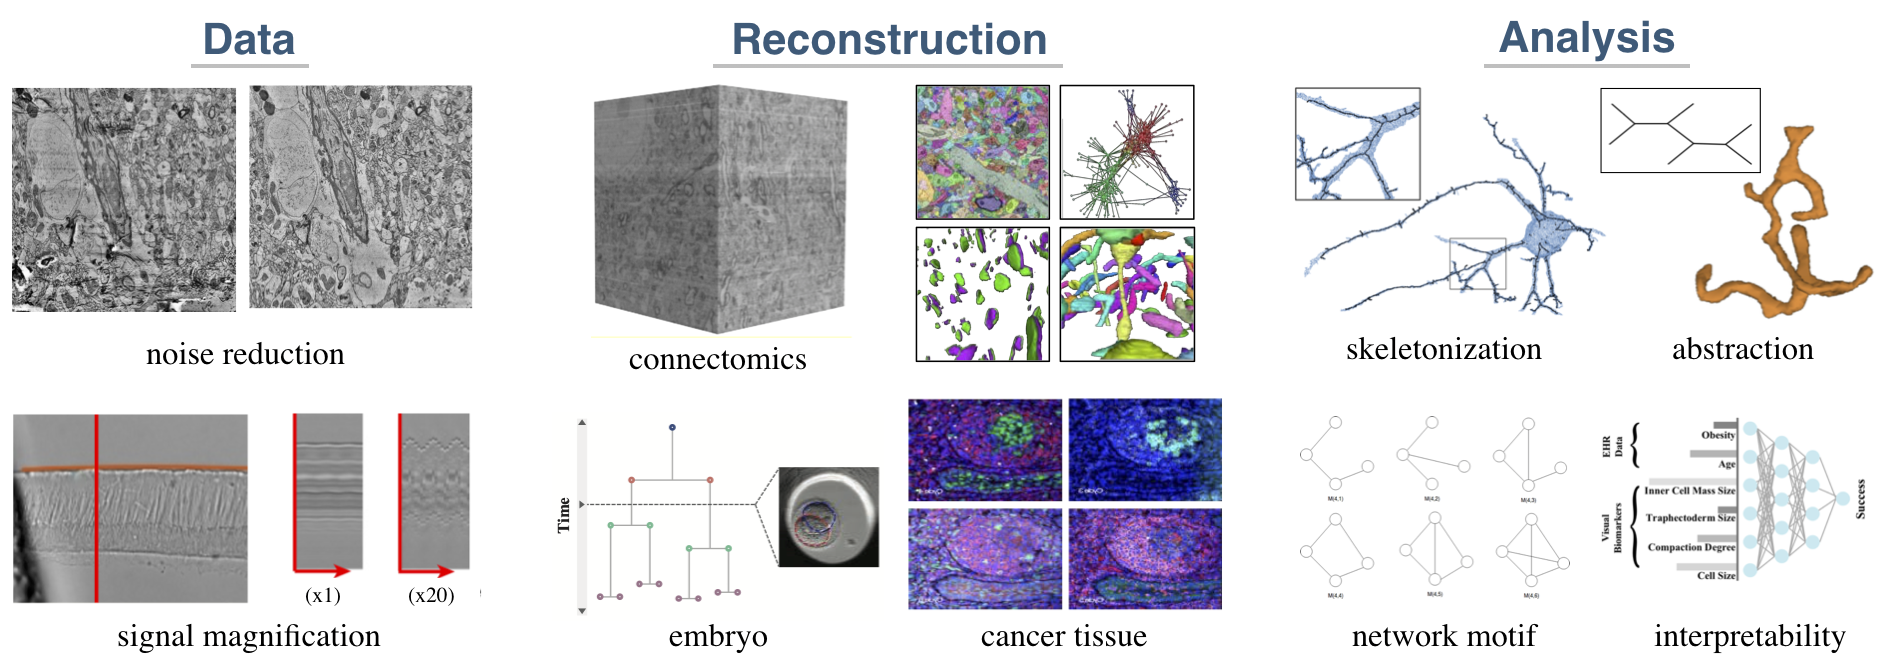
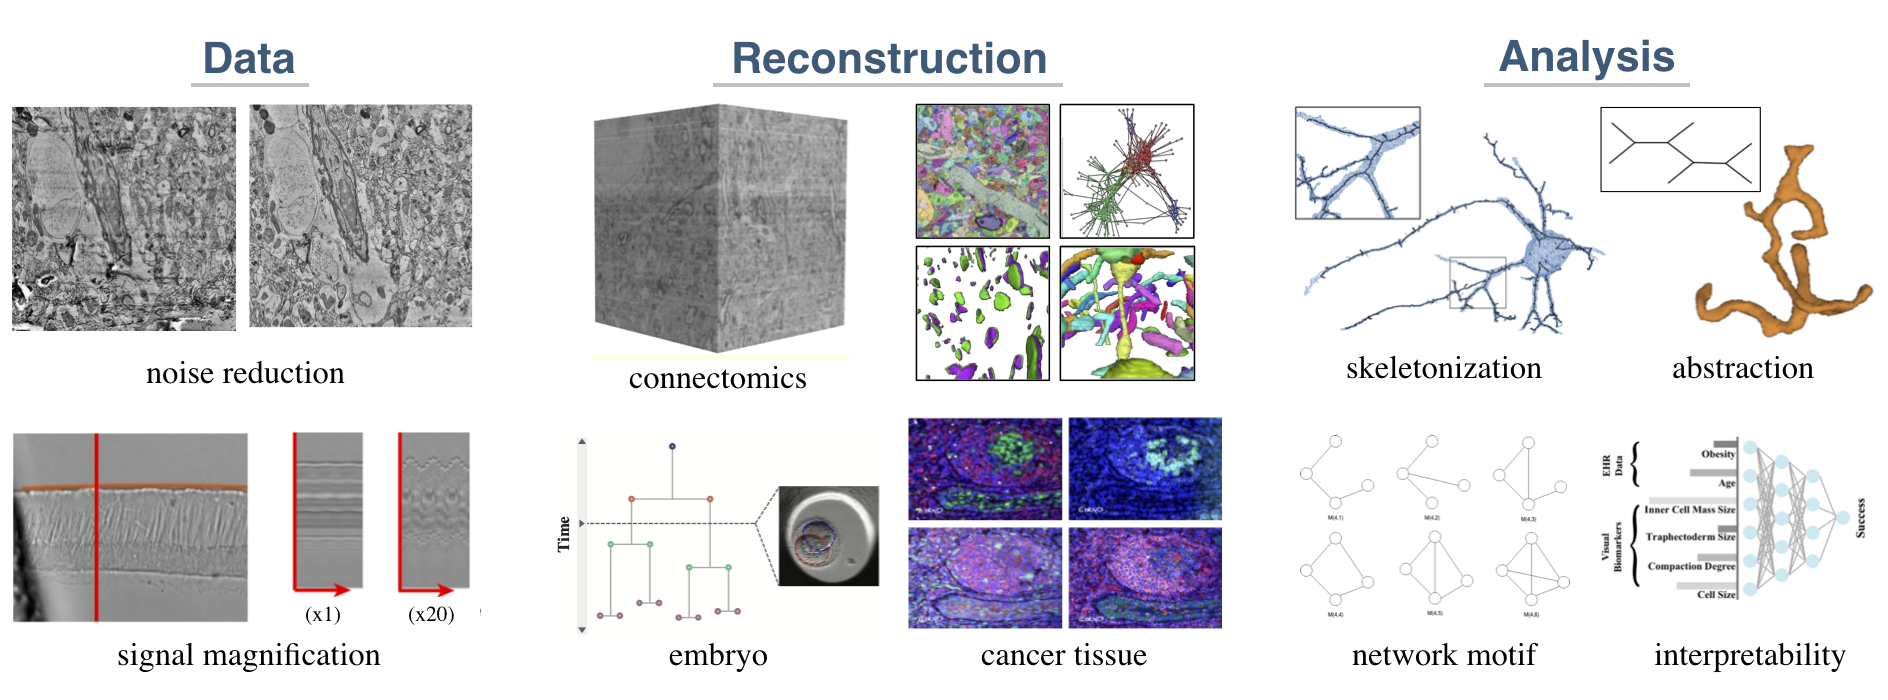
white margin

diff --git a/index.html b/index.html
@@ -79,9 +79,10 @@ My research interest lies in the <b>Biomedical Image Analysis</b> with healthcar
 <br/>
 During my Ph.D, I enjoyed the fun projects to examine the <a href="paper/2018_cvpr_aot.pdf">arrow of time</a> from videos.
             </h4></font>
+<br/>
 <img style="margin-left:-2.5%" width=105% src="proj/research_statement.png">
 </div>
-<br/><hr/><br/>
+<br/>
 <h2>Journal Publications</h2><br/>
         <table border=0>
     <tr>
@@ -274,12 +275,13 @@ During my Ph.D, I enjoyed the fun projects to examine the <a href="paper/2018_cv
             </tr>   
         </table>
 
-        <br/><hr/><br/>
+        <br/>
 <h2>Patents</h2>
       <ul>
           <li> <b>US Patent App. 15/223,438</b> Neal Wadhwa, Tali Dekel, Donglai Wei, Fredo Durand, William T. Freeman: Deviation Magnification: Revealing Departures from Ideal Geometries.</li>
       </ul>
-<hr/><br/>
+
+  </div>
 
 <h2>Short Bio</h2>
 <div style="font-size:140%">
@@ -321,8 +323,6 @@ During my Ph.D, I enjoyed the fun projects to examine the <a href="paper/2018_cv
         <td><font size=4><a href="http://www.biblegateway.com/passage/?search=John%203:%201-21&version=NIV">Born again</a></font> </td> 
         </tr>
         </table>
-  </div>
-
   </div>
     </body> 
     </html>
